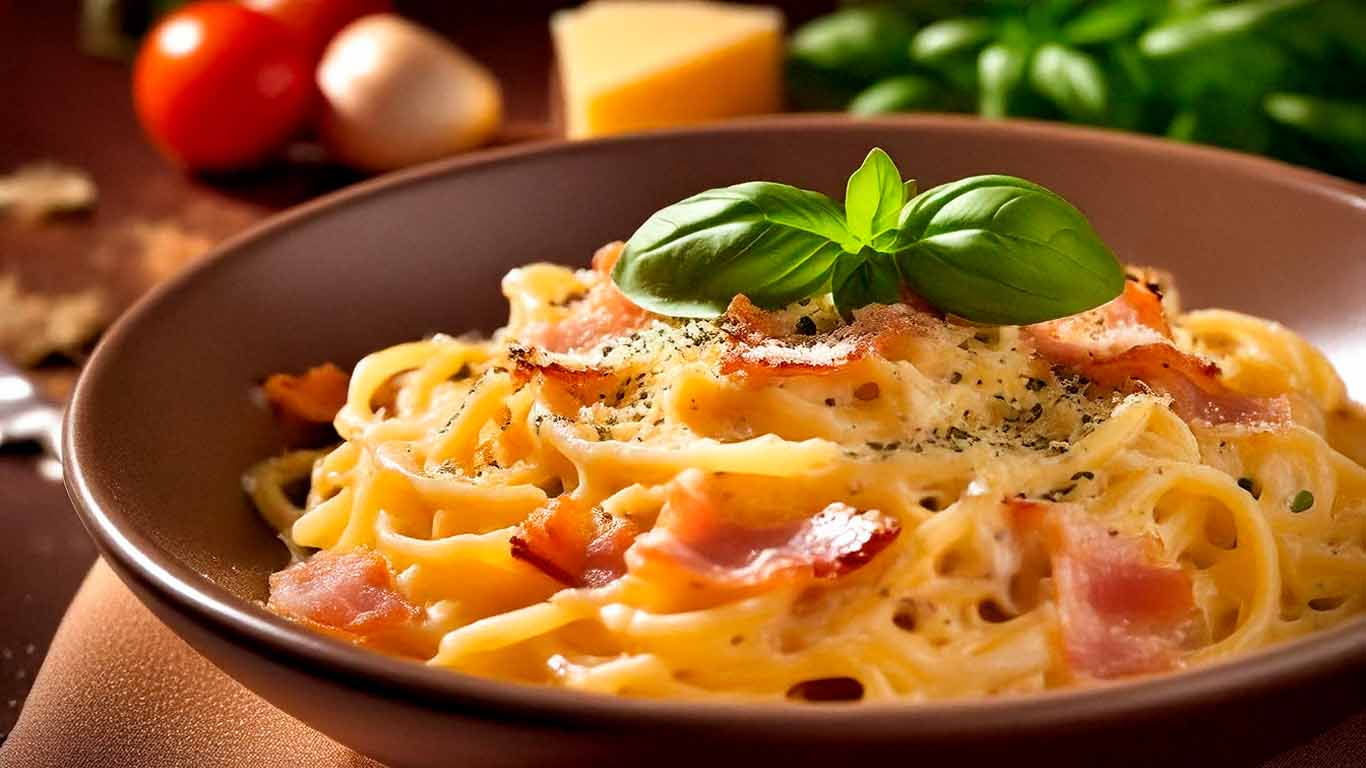
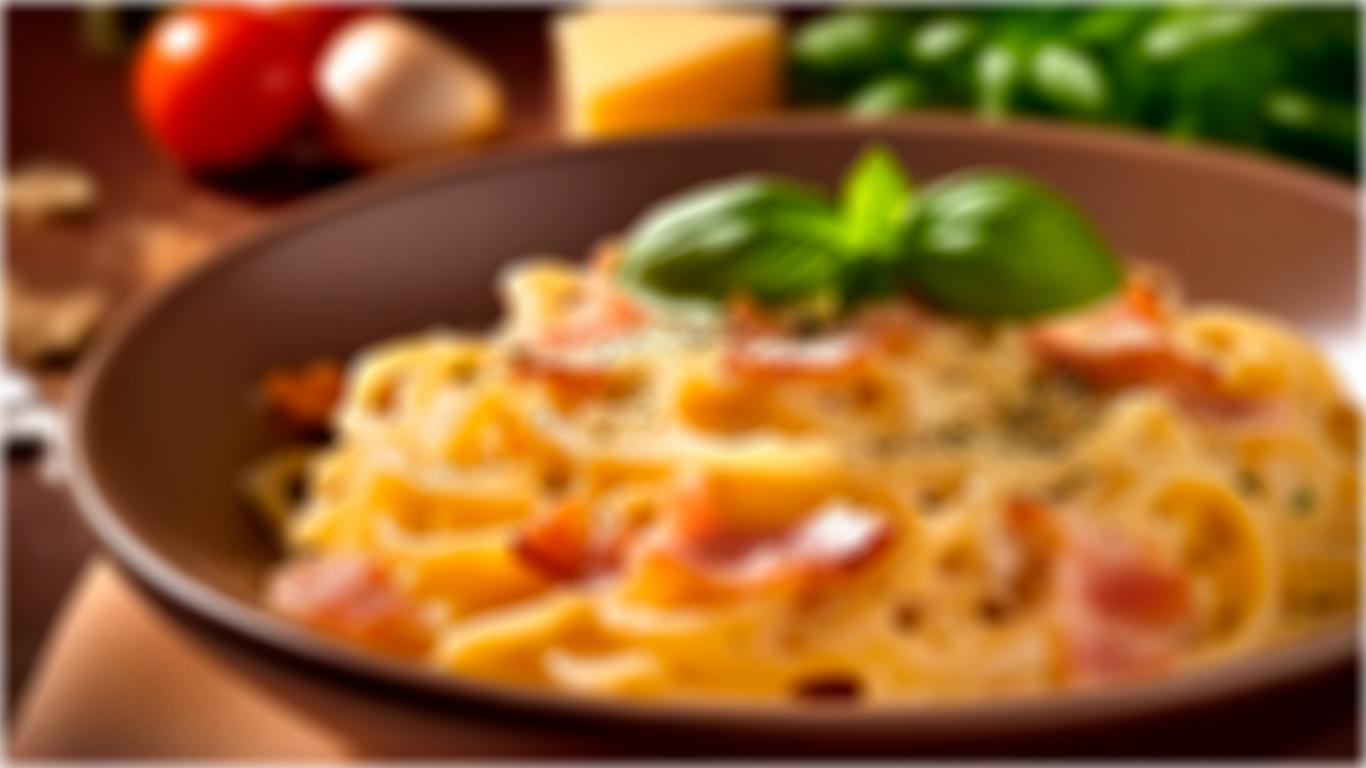
Fix Visual Bugs

diff --git a/pages/stores.vue b/pages/stores.vue
@@ -1,29 +1,34 @@
 <template>
-  <section class="flex flex-col gap-4 p-4">
-    <AppStoresQuoteOfTheDay />
-  </section>
-  <section class="flex flex-col gap-4 p-4">
-    <BaseInput label="Search your store" v-model="search" @keyup.enter="filterEvent($event)" icon="mdi:magnify"
-      placeholder="Write the name of the store you want to search and press enter" />
-    <div v-if="isLoading" class="flex justify-center items-center">
-      <div class="animate-spin rounded-full h-8 w-8 border-t-2 border-b-2 border-primary-500"></div>
-    </div>
-    <AppStoresStoreList v-else :stores="getCurrentPageStores" />
-    <BasePagination :item-per-page="10" :total-items="getTotalPages" :max-links-displayed="5"
-      @update:current-page="updatePage($event)" :current-page="getCurrentPageNumber" />
-  </section>
-
+  <div class="w-full">
+    <section class="flex flex-row items-center mx-auto gap-4 p-4 w-1/2">
+      <AppStoresQuoteOfTheDay />
+    </section>
+    <section class="flex flex-col gap-4 p-4 bg-primary-300 bg-opacity-50 rounded-sm">
+      <BaseInput label="Search your store" size="lg" @keyup="debouncedSearch($event)" icon="mdi:magnify"
+        placeholder="Write the name of the store you want to search" rounded="md" />
+      <div v-if="isLoading" class="flex justify-center items-center">
+        <div class="animate-spin rounded-full h-8 w-8 border-t-2 border-b-2 border-primary-500"></div>
+      </div>
+      <AppStoresStoreList v-else :stores="getCurrentPageStores" />
+      <BasePagination :item-per-page="10" :total-items="getTotalPages" :max-links-displayed="5"
+        @update:current-page="updatePage($event)" :current-page="getCurrentPageNumber" />
+    </section>
+  </div>
 </template>
 
 <script lang="ts" setup>
 const { getCurrentPageStores, getTotalPages, getCurrentPageNumber, isLoading } = storeToRefs(useMyStoresStore())
 const { fetchStores, updatePage, searchStores } = useMyStoresStore()
 
-const filterEvent = async (event: string) => {
-  console.log("filterEvent", event.target.value);
-  await fetchStores();
-  searchStores(event.target.value);
-}
+import { useDebounceFn } from '@vueuse/core'
+
+// useDebounceFn for search event
+const debouncedSearch = useDebounceFn(async (event: string) => {
+  await fetchStores()
+  searchStores(event.target.value)
+}, 500)
+
+
 const route = useRoute()
 onMounted(() => {
   fetchStores()

diff --git a/services/api/QuoteApiAdapter.ts b/services/api/QuoteApiAdapter.ts
@@ -1,64 +1,21 @@
-// src/services/api/QuoteApiAdapter.ts
 import ApiAdapter from "./ApiAdapter";
-
-const quoteCache: Record<string, { quote: string; fetchedAt: number }> = {};
 
 export default class QuoteApiAdapter extends ApiAdapter {
   async getQuoteOfTheDay(): Promise<any> {
-    const cacheKey = "quote-of-the-day";
-
-    // Verificar si tenemos una cita válida en caché
-    const cachedData = this.getCachedQuote(cacheKey);
-    if (cachedData) {
-      return cachedData.quote;
-    }
-
     try {
       const endpoint = useRuntimeConfig().public.quoteApiEndpoint || "";
       const token = useRuntimeConfig().quoteSecret || "";
-      const { data } = await useFetch(endpoint, {
-        method: "GET",
+      const data = await <any>$fetch(endpoint, {
         headers: {
           "Content-Type": "application/json",
           "X-Api-Key": token,
-        },
-        transform: (input: any) => ({
-          quote: input[0] || "No quote available",
-          fetchedAt: Date.now(),
-        }),
+        }
       });
-
-      // Guardar la cita en la memoria caché del servidor
-      this.cacheQuote(cacheKey, data.value);
-      return data.value?.quote || "No quote available";
+      return data[0] || "No quote available";
     } catch (error) {
       console.error("Error fetching quote:", error);
       throw new Error("Failed to fetch quote");
     }
-  }
-
-  private getCachedQuote(cacheKey: string) {
-    const cachedData = quoteCache[cacheKey];
-    if (!cachedData) return null;
-
-    const expirationTime = 24 * 60 * 60 * 1000; // 24 horas en ms
-    const isExpired = Date.now() - cachedData.fetchedAt > expirationTime;
-
-    if (isExpired) {
-      console.log("Quote of the day expired, refetching...");
-      this.clearCache(cacheKey);
-      return null;
-    }
-
-    return cachedData;
-  }
-
-  private cacheQuote(cacheKey: string, data: any) {
-    quoteCache[cacheKey] = data;
-  }
-
-  private clearCache(cacheKey: string) {
-    delete quoteCache[cacheKey];
   }
 
   async getStores(): Promise<any[]> {

diff --git a/layouts/default.vue b/layouts/default.vue
@@ -1,30 +1,29 @@
 <template>
-  <div class="bg-img fixed z-0"></div>
-  <header class="flex justify-center items-center py-4 w-full relative">
-    <NuxtLink to="/" class="font-bold text-xl text-primary">
-      <p>SRR - Restaurant APP</p>
-      <p class="text-sm">Company Inc.</p>
-    </NuxtLink>
-  </header>
-  <BaseNav class="absolute w-full">
-    <div class="flex justify-between space-x-6 text-2xl font-bold">
-      <NuxtLink to="/" class=" hover:text-accent transition">Calculator</NuxtLink>
-      <a href="/stores" class=" hover:text-accent transition">Our Stores</a>
-    </div>
-  </BaseNav>
-  <main class="mt-16 sm:mt-20 relative">
-    <slot />
-  </main>
-  <footer class="py-4 text-center ">
-    <p>&copy; 2024 Company Inc. All rights reserved.</p>
-  </footer>
+  <div class="h-full">
+    <header class="flex justify-center items-center py-4 w-full relative bg-primary-950 bg-opacity-70">
+      <NuxtLink to="/" class="font-bold text-xl text-primary-200 text-center">
+        <h1 class="text-2xl">Carbonara Restaurant's</h1>
+        <p class="text-sm">Company Inc.</p>
+      </NuxtLink>
+    </header>
+    <BaseNav class="absolute w-full">
+      <div class="flex justify-center space-x-6 text-2xl font-bold">
+        <NuxtLink to="/" class=" hover:text-accent transition">Calculator</NuxtLink>
+        <NuxtLink to="/stores" class=" hover:text-accent transition">Our Stores</NuxtLink>
+      </div>
+    </BaseNav>
+    <main class="mt-16 sm:mt-20 relative bg-primary-900 bg-opacity-30 p-5">
+      <div class="flex flex-col items-center justify-center">
+        <slot />
+      </div>
+    </main>
+    <footer class="py-4 text-center bg-primary-950 bg-opacity-70 text-primary-200">
+      <p>&copy; 2024 Company Inc. All rights reserved.</p>
+    </footer>
+  </div>
 </template>
 
 <script lang="ts" setup>
 </script>
 
-<style scoped>
-aside {
-  width: 200px;
-}
-</style>
+<style scoped></style>

diff --git a/components/App/meal/CalculatorForm.vue b/components/App/meal/CalculatorForm.vue
@@ -1,15 +1,17 @@
 <template>
-  <form @submit.prevent="calculateMeal">
-    <BaseForm title="Meal Calculator Form" class="flex flex-col p-3">
-      <div class="capitalize" v-for="(ingredient, key) in ingredients" :key="key">
-        <img :src="`/icons/${[key]}.gif`" class="relative h-6 w-6" />
-        <BaseInput class="w-1/2" v-model="userIngredients[key]" :label="key" :placeholder="'Quantity of ' + key" />
-      </div>
-      <template #footer>
-        <BaseButton type="submit">Calculate</BaseButton>
-      </template>
-    </BaseForm>
-  </form>
+  <div>
+    <form @submit.prevent="calculateMeal">
+      <BaseForm title="Meal Calculator Form" class="flex flex-col p-3">
+        <div class="capitalize" v-for="(ingredient, key) in ingredients" :key="key">
+          <img :src="`/icons/${[key]}.gif`" class="relative h-6 w-6" />
+          <BaseInput class="w-1/2" v-model="userIngredients[key]" :label="key" :placeholder="'Quantity of ' + key" />
+        </div>
+        <template #footer>
+          <BaseButton type="submit">Calculate</BaseButton>
+        </template>
+      </BaseForm>
+    </form>
+  </div>
 </template>
 
 <script lang="ts" setup>

diff --git a/nuxt.config.ts b/nuxt.config.ts
@@ -1,16 +1,25 @@
 // https://nuxt.com/docs/api/configuration/nuxt-config
 export default defineNuxtConfig({
-  compatibilityDate: '2024-04-03',
-  runtimeConfig: {
-    quoteSecret: '',
-    public: {
-      baseurl: '',
-      storeApiEndpoint: '',
-      quoteApiEndpoint: '',
+  compatibilityDate: "2024-04-03",
+  nitro: {
+    preset: "cloudflare",
+  },
+  app: {
+    pageTransition: {
+      name: "page",
+      mode: "out-in",
     },
   },
-  css: ['~/assets/main.css'],
-  extends: ['@shuriken-ui/nuxt'],
+  runtimeConfig: {
+    quoteSecret: "",
+    public: {
+      baseurl: "",
+      storeApiEndpoint: "",
+      quoteApiEndpoint: "",
+    },
+  },
+  css: ["~/assets/main.css"],
+  extends: ["@shuriken-ui/nuxt"],
   devtools: { enabled: true },
-  modules: ['@pinia/nuxt']
-})
+  modules: ["@pinia/nuxt", "@vueuse/nuxt", "nuxt-delay-hydration"],
+});

diff --git a/pages/index.vue b/pages/index.vue
@@ -1,11 +1,13 @@
 <!-- Best Landing page carbonara Site ShurikenUI -->
 <template>
-  <AppMealCalculatorForm class="w-full md:w-1/2 lg:w-1/3" />
+  <div class="w-full md:w-1/2 lg:w-1/3">
+    <AppMealCalculatorForm  />
+  </div>
 </template>
 
 <script lang="ts" setup>
 useHead({
-  title: 'Calculator',
+  title: 'Company INC | Meal Calculator',
   meta: [
     {
       name: 'description',
@@ -13,6 +15,17 @@ useHead({
     },
   ],
 })
+
+// transitions
+definePageMeta(
+  {
+    pageTransition: {
+      name: 'page',
+      mode: 'out-in',
+    },
+  }
+)
+
 </script>
 
 <style scoped></style>

diff --git a/assets/main.css b/assets/main.css
@@ -1,22 +1,11 @@
-.bg-img {
-	background-image: url("/images/carbonara.jpg");
-	/* Add the blur effect */
-	filter: blur(8px);
-	-webkit-filter: blur(8px);
-
-	/* Full height */
+body,
+html {
 	height: 100%;
-
-	/* Center and scale the image nicely */
+	background-image: url("/images/carbonara.jpg");
 	background-position: center;
 	background-repeat: repeat-y;
 	background-size: cover;
 	width: 100%;
-}
-
-body,
-html {
-	height: 100%;
 }
 
 * {

diff --git a/app.vue b/app.vue
@@ -1,6 +1,19 @@
 <template>
-  <NuxtLayout>
-  <NuxtLoadingIndicator />
-    <NuxtPage />
-  </NuxtLayout>
+  <div>
+    <NuxtLoadingIndicator />
+    <NuxtLayout>
+      <NuxtPage />
+    </NuxtLayout>
+  </div>
 </template>
+<style>
+.page-enter-active,
+.page-leave-active {
+  transition: all 0.4s;
+}
+.page-enter-from,
+.page-leave-to {
+  opacity: 0;
+  filter: blur(1rem);
+}
+</style>

diff --git a/components/App/stores/QuoteOfTheDay.vue b/components/App/stores/QuoteOfTheDay.vue
@@ -16,8 +16,7 @@
 
 <script lang="ts" setup>
 const config = useRuntimeConfig()
-const { $quote } = useNuxtApp()
-const { data: quote } = await useAsyncData('quote-of-the-day', () => $quote)
+const { data: quote } = await useAsyncData('quote-of-the-day', () => $fetch('/api/quote'), { server: true })
 </script>
 
 <style></style>

diff --git a/plugins/quote.server.ts b/plugins/quote.server.ts
@@ -3,6 +3,5 @@ import QuoteApiAdapter from "~/services/api/QuoteApiAdapter";
 export default defineNuxtPlugin(async (nuxtApp) => {
   const api = new QuoteApiAdapter();
   const quote = await api.getQuoteOfTheDay();
-  console.log("SERVER-PLUGIN: ", quote);
   nuxtApp.provide("quote", quote);
 });

diff --git a/pages/results.vue b/pages/results.vue
@@ -1,5 +1,7 @@
 <template>
-  <AppMealResultDisplay :meals="meals" :ingredients="ingredients" />
+  <BaseCard class="w-full md:w-1/2 lg:w-1/3">
+    <AppMealResultDisplay :meals="meals" :ingredients="ingredients" />
+  </BaseCard>
 </template>
 
 <script lang="ts" setup>

diff --git a/server/api/quote.ts b/server/api/quote.ts
@@ -1,3 +1,7 @@
+import QuoteApiAdapter from "~/services/api/QuoteApiAdapter";
+
 export default defineEventHandler(async (event) => {
-  return 'Hello Nitro'
+  const api = new QuoteApiAdapter();
+  const quote = await api.getQuoteOfTheDay();
+  return quote
 })
